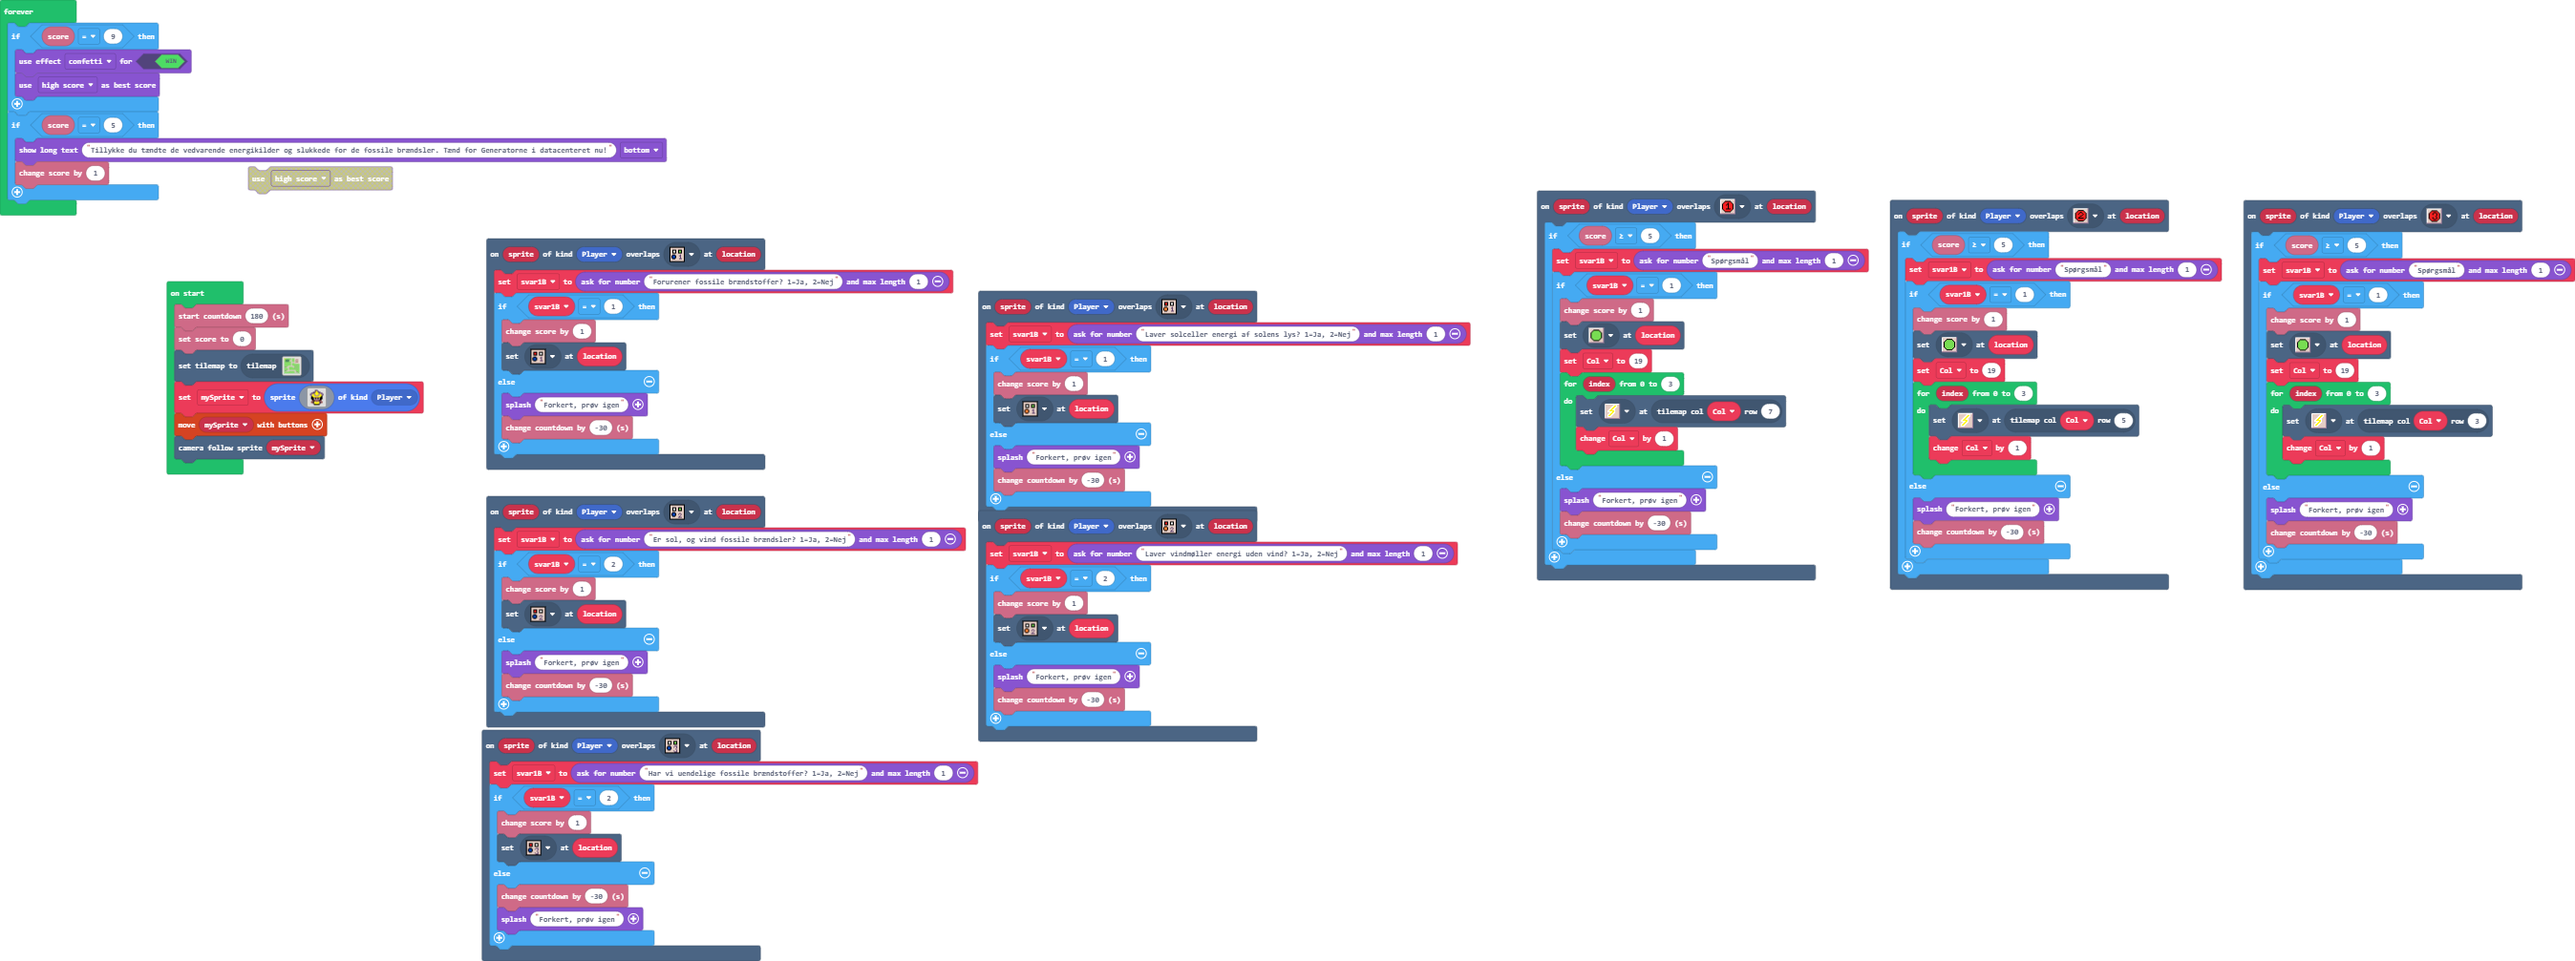
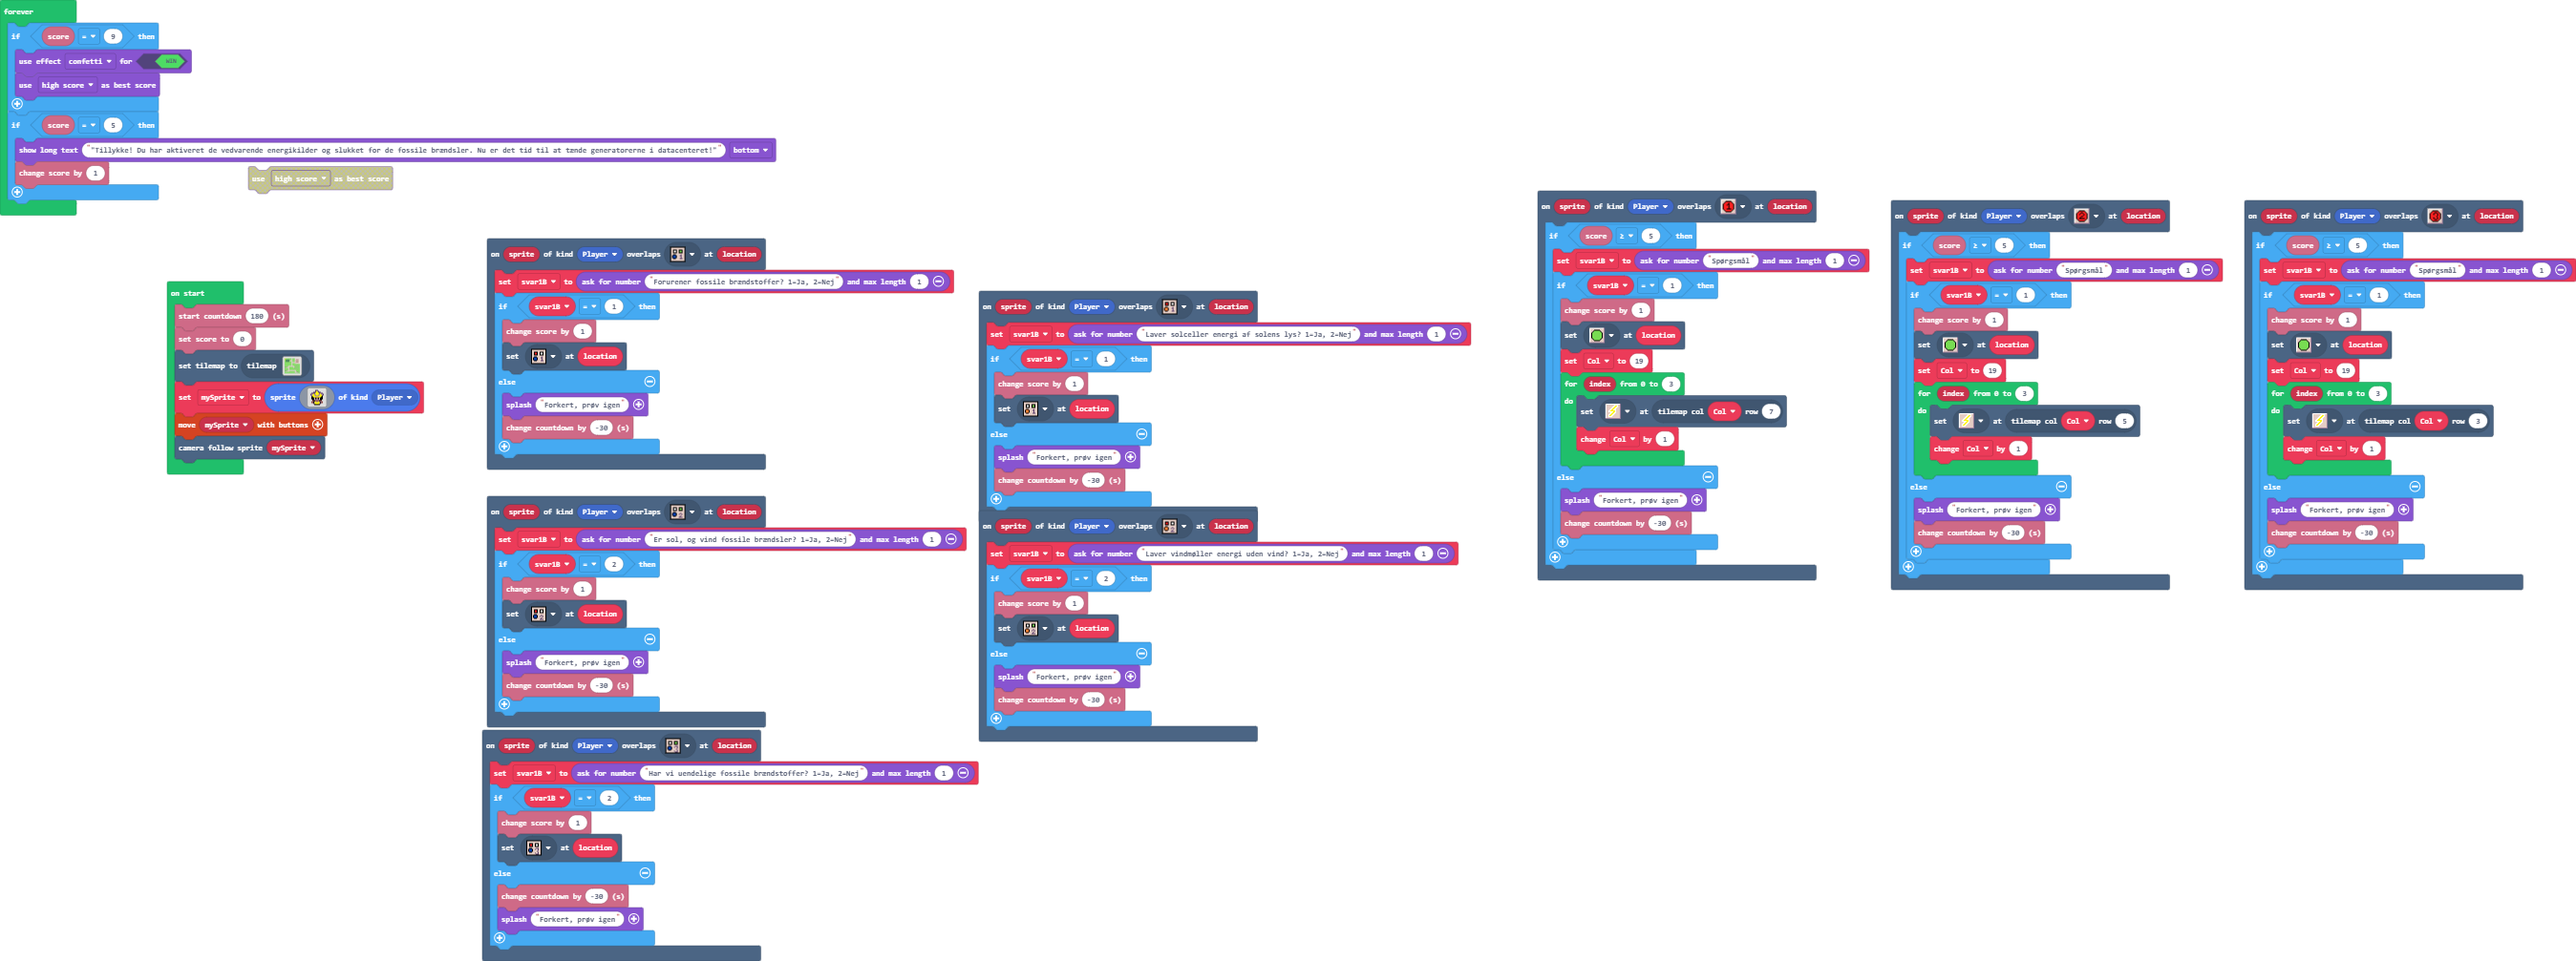
Update main.blocks, main.ts, tilemap.g.jres, tilemap.g.ts

diff --git a/tilemap.g.ts b/tilemap.g.ts
@@ -166,6 +166,25 @@ namespace myTiles {
 .........................
 .........................
 `, [myTiles.transparency16,sprites.castle.tilePath5,sprites.castle.tilePath1,sprites.castle.tilePath4,sprites.castle.tilePath7,sprites.castle.tilePath8,sprites.castle.tilePath2,sprites.castle.tilePath3,sprites.castle.tilePath6,myTiles.tile3,sprites.skillmap.islandTile6,sprites.skillmap.islandTile7,sprites.skillmap.islandTile8,sprites.skillmap.islandTile5,sprites.skillmap.islandTile3,sprites.builtin.brick,myTiles.tile4,myTiles.tile5,myTiles.tile6,myTiles.tile7,myTiles.tile8,myTiles.tile10,myTiles.tile11,myTiles.tile12,myTiles.tile13,myTiles.tile14,myTiles.tile15,myTiles.tile16,myTiles.tile17,myTiles.tile18,myTiles.tile19,sprites.dungeon.floorLight2,myTiles.tile20,myTiles.tile21,sprites.castle.tilePath9,myTiles.tile23,myTiles.tile24,myTiles.tile25,myTiles.tile26,myTiles.tile28,myTiles.tile22,myTiles.tile34,myTiles.tile37,myTiles.tile38], TileScale.Sixteen);
+            case "level5":
+            case "level5":return tiles.createTilemap(hex`1000100000000000000000000000000000000000000000000000000000000000000000000000000000000000000000000000000000000000000000000000000000000000000000000000000000000000000000000000000000000000000000000000000000000000000000000000000000000000000000000000000000000000000000000000000000000000000000000000000000000000000000000000000000000000000000000000000000000000000000000000000000000000000000000000000000000000000000000000000000000000000000000000000000000000000000000000000000000000000000000000000000000000000000000000000000000000`, img`
+. . . . . . . . . . . . . . . . 
+. . . . . . . . . . . . . . . . 
+. . . . . . . . . . . . . . . . 
+. . . . . . . . . . . . . . . . 
+. . . . . . . . . . . . . . . . 
+. . . . . . . . . . . . . . . . 
+. . . . . . . . . . . . . . . . 
+. . . . . . . . . . . . . . . . 
+. . . . . . . . . . . . . . . . 
+. . . . . . . . . . . . . . . . 
+. . . . . . . . . . . . . . . . 
+. . . . . . . . . . . . . . . . 
+. . . . . . . . . . . . . . . . 
+. . . . . . . . . . . . . . . . 
+. . . . . . . . . . . . . . . . 
+. . . . . . . . . . . . . . . . 
+`, [myTiles.transparency16], TileScale.Sixteen);
         }
         return null;
     })

diff --git a/main.ts b/main.ts
@@ -130,7 +130,7 @@ forever(function () {
         game.setGameOverScoringType(game.ScoringType.HighScore)
     }
     if (info.score() == 5) {
-        game.showLongText("Tillykke du tændte de vedvarende energikilder og slukkede for de fossile brændsler. Tænd for Generatorne i datacenteret nu!", DialogLayout.Bottom)
+        game.showLongText("\"Tillykke! Du har aktiveret de vedvarende energikilder og slukket for de fossile brændsler. Nu er det tid til at tænde generatorerne i datacenteret!\"", DialogLayout.Bottom)
         info.changeScoreBy(1)
     }
 })
